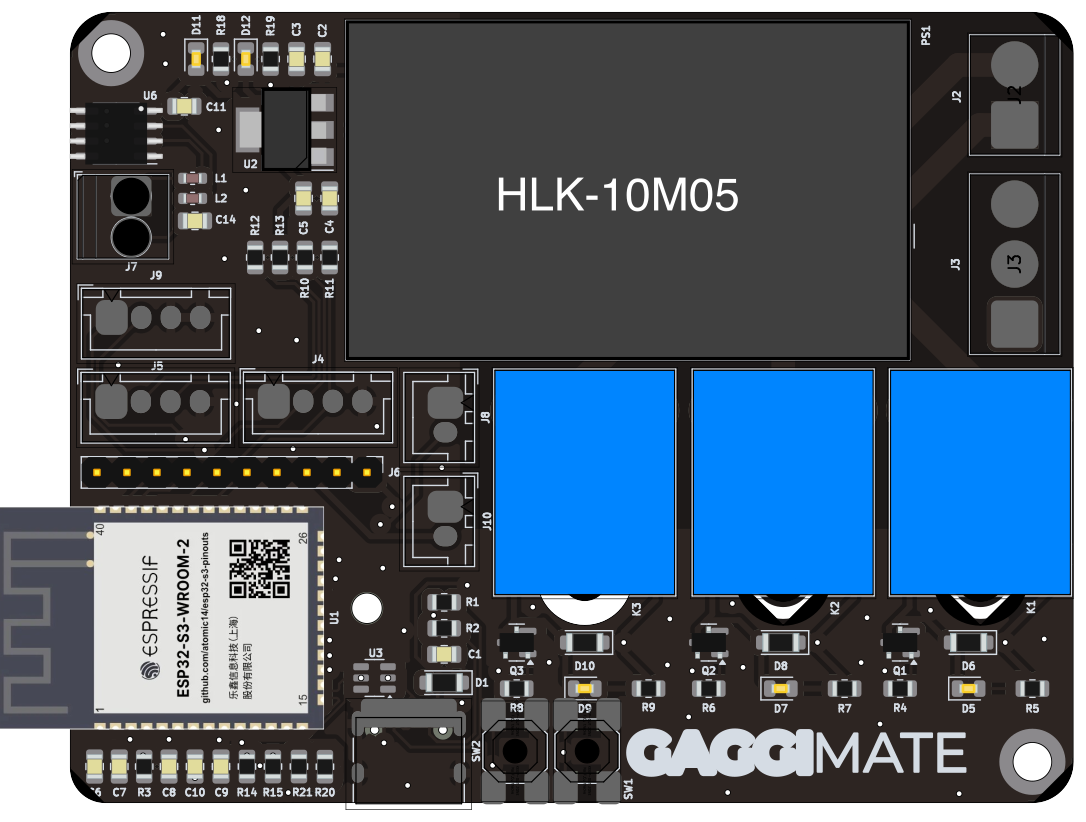
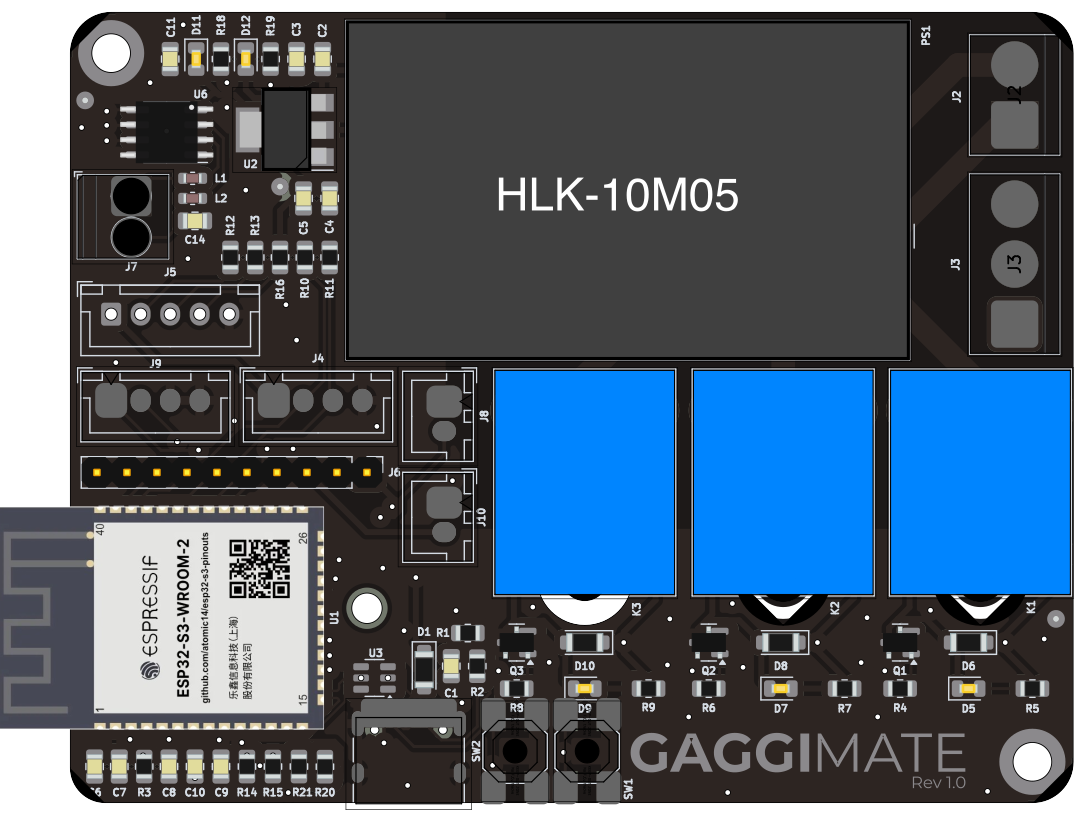
fix: Fix pinout diagram for new PCB layout

diff --git a/scripts/pinout_diagram.py b/scripts/pinout_diagram.py
@@ -29,8 +29,8 @@ hardware.add_coord("screen", 445, 506)
 hardware.add_coord("ssr", 445, 403)
 hardware.add_coord("uart", 275, 403)
 hardware.add_coord("temp_sensor", 133, 198)
-hardware.add_coord("buttons", 113, 320)
-hardware.add_coord("i2c", 113, 403)
+hardware.add_coord("i2c", 113, 320)
+hardware.add_coord("buttons", 113, 403)
 hardware.add_coord("ext", 97, 470)
 # Other (x,y) pairs can also be stored here
 hardware.add_coord("pin_pitch_v", 0, 30)
@@ -71,7 +71,7 @@ graphic.add(
         y=hardware.coord("buttons").y,
         scale=(-1, -1),
         pin_pitch=hardware.coord("pin_pitch_h", raw=True),
-        label_start=(60, 10),
+        label_start=(60,-60),
         label_pitch=hardware.coord("pin_pitch_v", raw=True),
         labels=data.buttons,
         leaderline=lline.Straight(),
@@ -84,7 +84,7 @@ graphic.add(
         y=hardware.coord("i2c").y,
         scale=(-1, -1),
         pin_pitch=hardware.coord("pin_pitch_h", raw=True),
-        label_start=(60, -30),
+        label_start=(60, -20),
         label_pitch=hardware.coord("pin_pitch_v", raw=True),
         labels=data.i2c,
         leaderline=lline.Straight(),

diff --git a/scripts/data.py b/scripts/data.py
@@ -47,6 +47,10 @@ i2c = [
         ("gpio18", "doc"),
     ],
     [
+        ("SDA2", "comms"),
+        ("gpio39", "doc"),
+    ],
+    [
         ("GND", "gnd"),
     ],
 ]
@@ -58,7 +62,7 @@ buttons = [
     ],
     [
         ("Steam", "gpio"),
-        ("gpio39", "doc"),
+        ("gpio48", "doc"),
     ],
     [
         ("GND", "gnd"),
